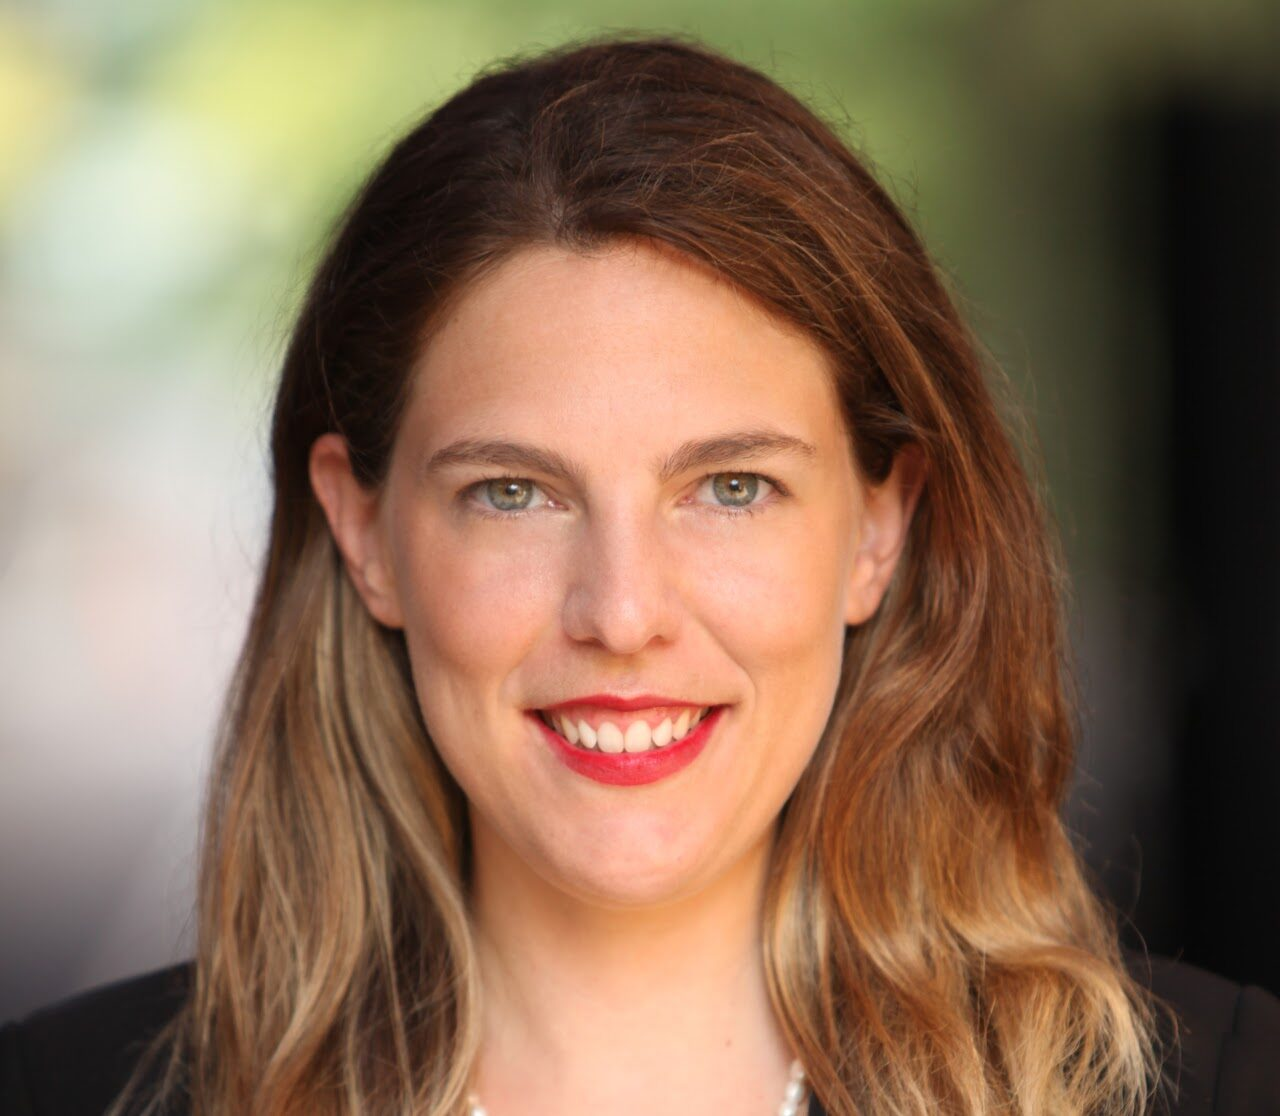
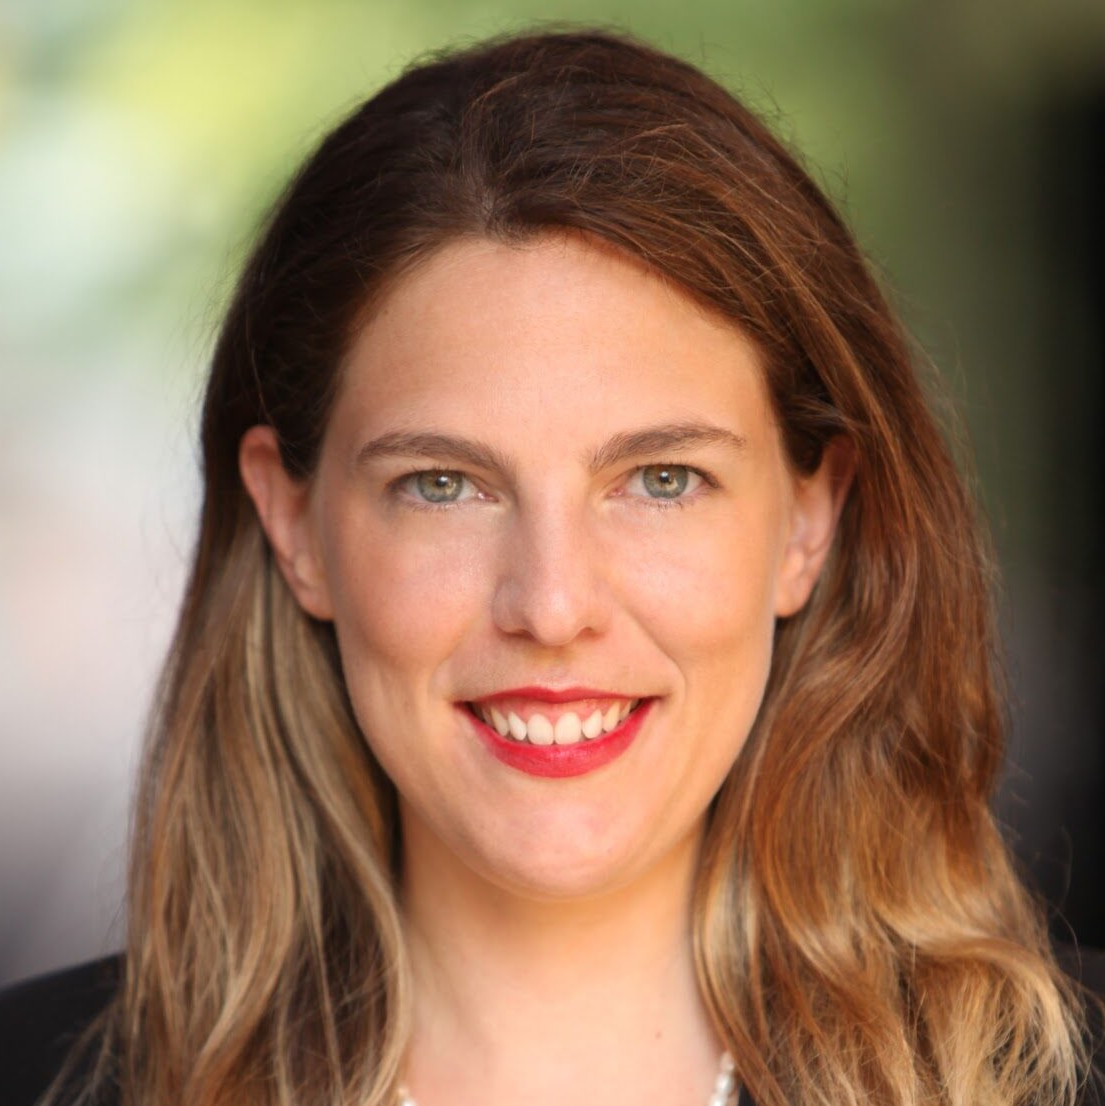
soledad aspect ratio fix, typo, and put dates at the front

diff --git a/2022/2022ECMLPKDD/index.html b/2022/2022ECMLPKDD/index.html
@@ -150,19 +150,19 @@
                         <a class="page-scroll" href="#introduction">Intro</a>
                     </li>
                     <li>
+                        <a class="page-scroll" href="#dates">Dates</a>
+                    </li>
+                    <li>
                         <a class="page-scroll" href="#program">Schedule</a>
                     </li>
                     <li>
                         <a class="page-scroll" href="#keynote">Keynotes</a>
                     </li>
-                    <li>
+                   <!-- <li>
                         <a class="page-scroll" href="#papers">Accepted Papers</a>
-                    </li>
+                    </li>-->
                     <li>
                         <a class="page-scroll" href="#call">CFP</a>
-                    </li>
-                    <li>
-                        <a class="page-scroll" href="#dates">Dates</a>
                     </li>
                     <li>
                         <a class="page-scroll" href="#organization">Organization</a>
@@ -187,7 +187,7 @@
             <div class="intro-text">
                 <div class="intro-lead-in">Held in conjunction with <a href="https://2022.ecmlpkdd.org/""
                         target=_blank>ECMLPKDD'22</a></br>
-                    Sep 15, 2022 - Grenoble, France</div>
+                    Sep 23, 2022 - Grenoble, France</div>
                 <div class="intro-heading">18th International Workshop on<br />Mining and Learning with Graphs</div>
                 <a href="#program" target=_blank class="page-scroll btn btn-xl">Schedule</a>
             </div>
@@ -246,30 +246,47 @@
             </div>
     </section>
 
-    <!-- Program Section -->
-    <section id="program" class="bg-mid-gray">
+    <!-- Dates Section -->
+    <section id="dates" class="bg-mid-gray">
         <div class="container">
             <div class="row">
                 <div class="col-lg-12 text-center">
-                    <h2 class="section-heading">Schedule</h2>
-                    <h3 class="section-subheading text-muted"><strong>Geronoble, France. All times are <a
-                                href='https://time.is/CET' target=_blank>CET</a>)</strong>
-                                <br /><br />
-                        All accepted papers will be presented in the poster session.<br />
-                        Two best papers will be selected as contributed talks and the remaining accepted submissions as spotlight
-                        presentations.
-                    </h3>
+                    <h2 class="section-heading">Important Dates</h2>
+                    <!--h3 class="section-subheading text-muted">Lorem ipsum dolor sit amet consectetur.</h3-->
                 </div>
             </div>
-            
-            tba.
-
+            <div class="row">
+                <div class="col-lg-4 text-left">
+                    &nbsp;
+                </div>
+                <div class="col-lg-6 text-left">
+                    <div class="col-md-12">
+                        <!--p class="large text-muted">
+                      <b>Paper Submission Open:</b> TBD
+                    </p-->
+                        <!--p class="large text-muted">
+                      <b>Paper Abstract Deadline:</b> <strike>May 20, 2020</strike>
+                    </p-->
+                        <p class="large text-muted">
+                            <b>Paper Submission Deadline:</b> June 20, 2022  
+                        </p>
+                        <p class="large text-muted">
+                            <b>Author Notification:</b> July 13, 2022
+                        </p>
+                        <p class="large text-muted">
+                            <b>Camera Ready:</b> August 30, 2022
+                        </p>
+                        <p class="large text-muted">
+                            <b>Workshop:</b> September 23, 2022
+                        </p>
+                    </div>
+                </div>
+            </div>
         </div>
     </section>
 
     <!-- Keynote Section no abstract -->
-
-    <section id="keynote" class="bg-mid">
+    <section id="keynote">
         <div class="container">
             <div class="row">
                 <div class="col-lg-12 text-center">
@@ -300,6 +317,29 @@
 
         </div>
     </section>
+
+    <!-- Program Section -->
+    <section id="program" class="bg-mid-gray">
+        <div class="container">
+            <div class="row">
+                <div class="col-lg-12 text-center">
+                    <h2 class="section-heading">Schedule</h2>
+                    <h3 class="section-subheading text-muted"><strong>Geronoble, France. All times are <a
+                                href='https://time.is/CET' target=_blank>CET</a>)</strong>
+                                <br /><br />
+                        All accepted papers will be presented in the poster session.<br />
+                        Two best papers will be selected as contributed talks and the remaining accepted submissions as spotlight
+                        presentations.
+                    </h3>
+                </div>
+            </div>
+            
+            tba.
+
+        </div>
+    </section>
+
+    
 
     <!-- Accepted Papers Section -->
     
@@ -391,7 +431,7 @@ plications of the following (non-exhaustive) list of areas:
                             Please note that at least one author of each accepted paper has to register for the conference.
                         </p>
 
-                        <p class="large text-muted"></p>
+                        <p class="large text-muted">
                         <strong>Dual Submission Policy</strong>: We accept submissions that are currently under review at other
                         venues. However, in this case our page limits apply. Please also check the dual submission
                         policy of the other venue.
@@ -419,47 +459,10 @@ plications of the following (non-exhaustive) list of areas:
         </div>
     </section>
 
-    <!-- Dates Section -->
-    <section id="dates" class="bg-mid-gray">
-        <div class="container">
-            <div class="row">
-                <div class="col-lg-12 text-center">
-                    <h2 class="section-heading">Important Dates</h2>
-                    <!--h3 class="section-subheading text-muted">Lorem ipsum dolor sit amet consectetur.</h3-->
-                </div>
-            </div>
-            <div class="row">
-                <div class="col-lg-4 text-left">
-                    &nbsp;
-                </div>
-                <div class="col-lg-6 text-left">
-                    <div class="col-md-12">
-                        <!--p class="large text-muted">
-                      <b>Paper Submission Open:</b> TBD
-                    </p-->
-                        <!--p class="large text-muted">
-                      <b>Paper Abstract Deadline:</b> <strike>May 20, 2020</strike>
-                    </p-->
-                        <p class="large text-muted">
-                            <b>Paper Submission Deadline:</b> June 20, 2022  
-                        </p>
-                        <p class="large text-muted">
-                            <b>Author Notification:</b> July 13, 2022
-                        </p>
-                        <p class="large text-muted">
-                            <b>Camera Ready:</b> August 30, 2022
-                        </p>
-                        <p class="large text-muted">
-                            <b>Workshop:</b> September 23, 2022
-                        </p>
-                    </div>
-                </div>
-            </div>
-        </div>
-    </section>
+    
 
     <!-- Organization Section -->
-    <section id="organization">
+    <section id="organization" class="bg-mid-gray">
         <!--class="bg-mid-gray"-->
         <div class="container">
             <div class="row">
@@ -585,7 +588,7 @@ plications of the following (non-exhaustive) list of areas:
     </section>
 
     <!-- History Section -->
-    <section id="history" class="bg-mid-gray">
+    <section id="history">
         <div class="container">
             <div class="row">
                 <div class="col-lg-12 text-center">
